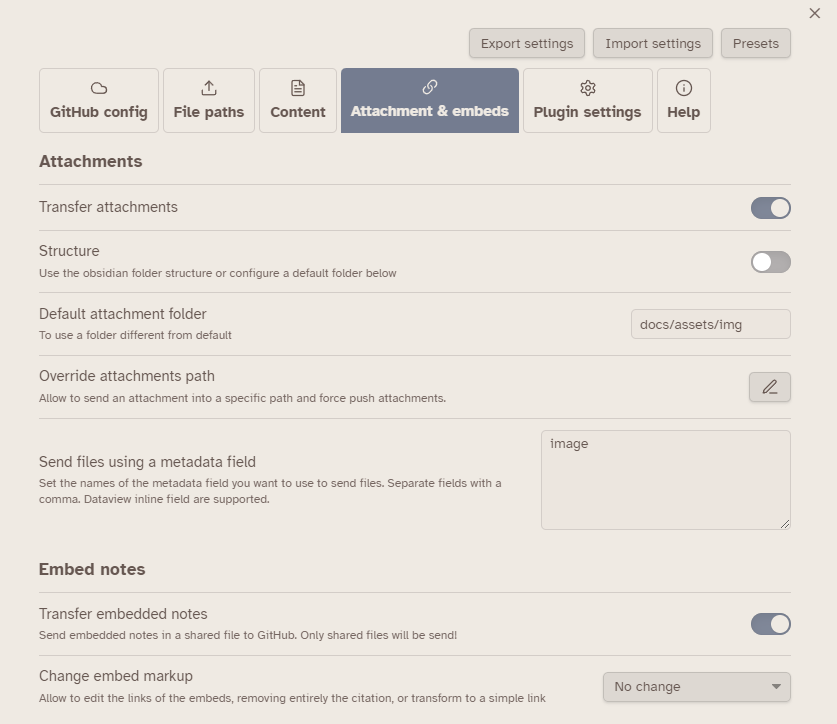
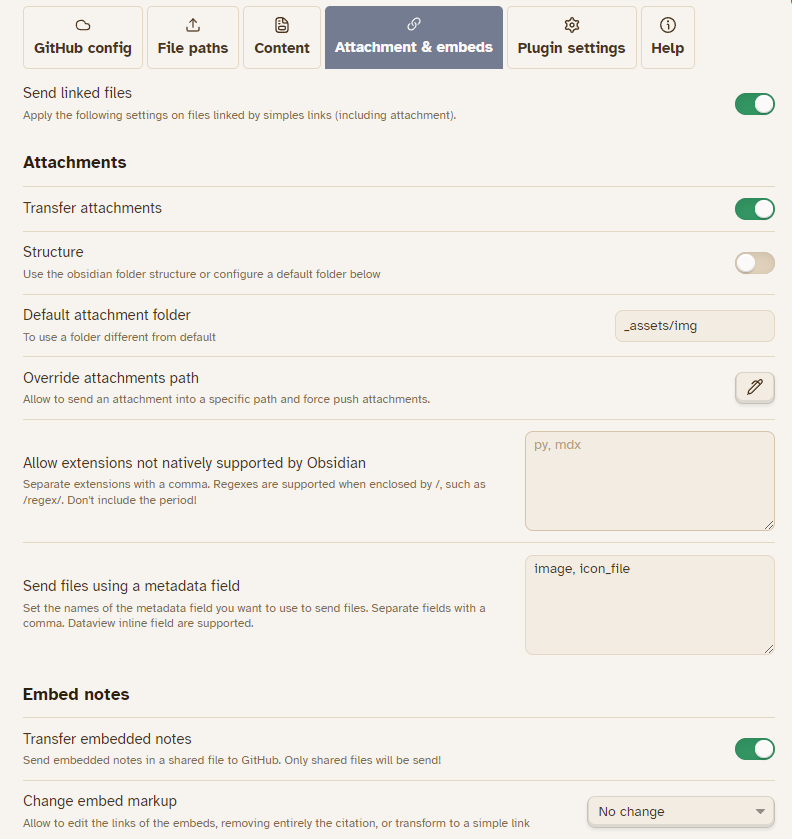
update embed settings to add links

diff --git a/content/Settings/Per files settings.md b/content/Settings/Per files settings.md
@@ -7,7 +7,6 @@ title: Per files settings
 :sparkles: It is now possible to set a repository directly in the frontmatter with the `repo` key.
 
 > [!warning]
->
 > - Your GitHub token must work for this repository
 > - The function that uploads multiple notes won't send files to this "per-file" repository. Only the command `Upload single current active note` will work, with the [[Upload#Auto Clean-Up|autoclean]] if activated. You can disable it using the frontmatter!
 > - The key works in this order: `username/repo/branch/autoclean`, `username/repo/brach`, `username/repo`, and `repo`. You can also use a YAML object like this:
@@ -93,11 +92,12 @@ Some settings can be overridden based on your frontmatter key (of the file send)
      - `links` : Convert to markdown links (remove the `!` before the link).
      - `bake` : Include the contents of the embed. Support block, heading, and entire file. Based on the plugin [easy-bake](https://github.com/mgmeyers/obsidian-easy-bake). File are included as is, without markdown or html specificities.
    - `char` : Add a character(s) before the embedded links. Used only if you set the `remove` key to `links`.
-1. `Attachment` : allow per-file settings for attachments (images, pdfs, sound, video… Any attachment supported by Obsidian)
+1. `attachment` : allow per-file settings for attachments (images, pdfs, sound, video… Any attachment supported by Obsidian)
    - `send: false` to avoid sending the files
    - `folder` to change the default folder. Beware that changing this setting can have strange effects with autocleaning! You can, again, use a one-key setting using `attachmentLinks` for the folder and `attachment: false` to avoid sending.
 1. `dataview` to override dataview settings.
 1. `hardbreak` for markdown hard break.
+1. `includeLinks` Allow sending file linked by simple links, like `[[markdown]]` or `[alias](markdown)`.
 1. `baselink` : to change the base link for the copy links function. Note, using this key will disable the remove part settings. You need to use the object `copylink` to edit the remove part, as follow:
    - `base`: to change the base link
    - `remove` : To remove some part specific to this file.
@@ -134,6 +134,7 @@ attachment:
   folder: string #change default folder for attachment
 dataview: boolean #force/prevent dataview queries conversion
 hardbreak: boolean #same but for hardbreak
+includeLinks: boolean #send files linked by simple links, like [[markdown]] or [alias](markdown) 
 repo:
   branch: string #change default branch
   repo: string #change default repository
@@ -157,6 +158,7 @@ attachment:
   folder: string #change default folder for attachment
 dataview: boolean #force/prevent dataview queries conversion
 hardbreak: boolean #same but for hardbreak
+includeLinks: boolean #send files linked by simple links, like [[markdown]] or [alias](markdown)
 baselink: string #change base link for copylink settings
 multipleRepo:
   - repo:
@@ -181,6 +183,7 @@ attachmentLinks: string #ovverride default folder for attachments
 attachment: boolean #prevent sending attachment
 dataview: boolean
 hardbreak: boolean
+includeLinks: boolean 
 repo: string #owner/repo/branch/clean or owner/repo/branch or owner/repo or repo
 autoclean: boolean #disable auto cleaning (use it only if you don't set in the repo!)
 baselink: string #change base link for copylink settings
@@ -196,6 +199,7 @@ attachmentLinks: string #ovverride default folder for attachments
 attachment: boolean #prevent sending attachment
 dataview: boolean
 hardbreak: boolean
+includeLinks: boolean
 baselink: string #change base link for copylink settings
 multipleRepo: list of string
   - owner/repo/branch/autoclean or owner/repo or repo
@@ -217,6 +221,7 @@ attachment:
   folder: settings.default_folder_image || settings.default_folder || filepath
 dataview: settings.dataview
 hardbreak: settings.hardbreak
+includeLinks: settings.includeLinks
 repo: #same for multipleRepo
   branch: settings.branch
   repo: settings.repo

diff --git a/content/Settings/Embed.md b/content/Settings/Embed.md
@@ -5,10 +5,17 @@ order: 4
 
 ![](../img/Embed.png)
 
+> [!NOTE]
+> The first option allow you to share *also* the notes linked by a **simple** links, like `[[note]]` or `[note](note.md)`. Disable it and you needs to use a dataview query (or frontmatter property) to send specific files.
+> Obviously, the notes needs to be shared to be send.
+
+
 You can choose to send embedded files in two ways:
 
 - <u>Attachments</u>: The file will be copied to the repository in an optional settled folder. Attachments are [all files supported by Obsidian (that aren't markdown)](https://help.obsidian.md/Files+and+folders/Accepted+file+formats).
 - <u>Notes</u>: Only shared files will be copied in the repository, in their respected folder (following your settings).
+
+
 
 ## Attachments
 
